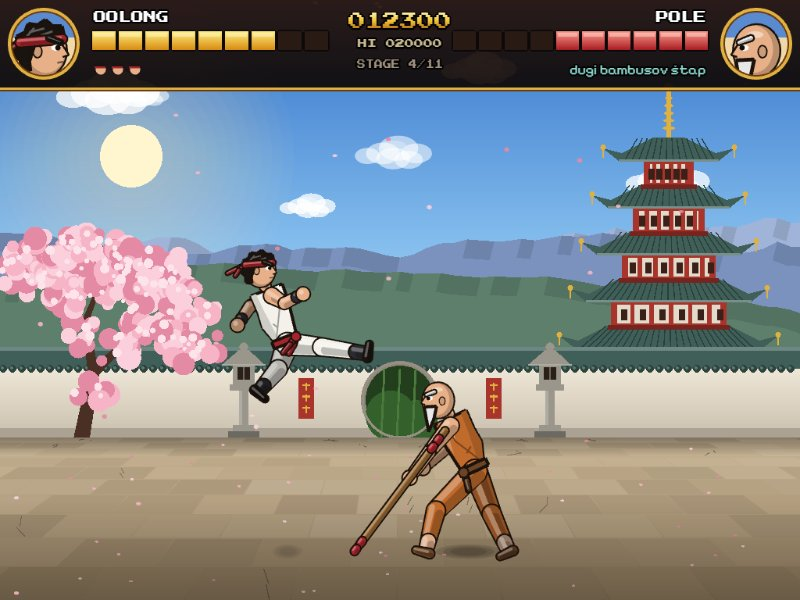
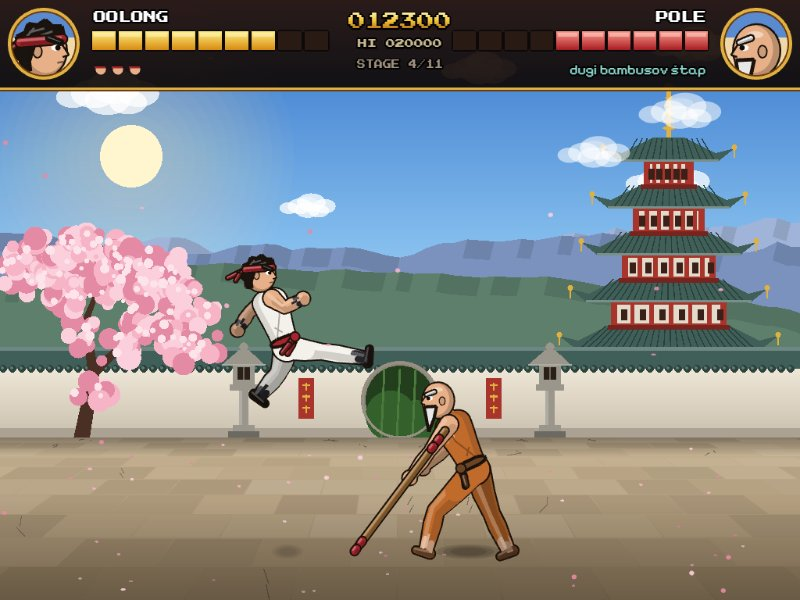
Draw Yie Ar Kung-Fu fighters as merged silhouettes with shaped muscles instead of jointed parts

diff --git a/kungfu/src/art.js b/kungfu/src/art.js
@@ -134,6 +134,63 @@ function tail(pen, start, dir, segs, len, r0, r1, color, t, phase) {
 // ---------------------------------------------------------------------------------------------
 // Fighters
 // ---------------------------------------------------------------------------------------------
+// Corner-cutting (Chaikin) to round off a closed outline.
+function smooth(points, iters = 2) {
+    let p = points;
+    for (let k = 0; k < iters; k++) {
+        const q = [];
+        for (let i = 0; i < p.length; i++) { const a = p[i], b = p[(i + 1) % p.length]; q.push(lerp2(a, b, 0.25), lerp2(a, b, 0.75)); }
+        p = q;
+    }
+    return p;
+}
+
+// A layer gathers the shapes of one piece of the body (an arm, a leg, the trunk) and paints all
+// their outlines first and all their fills after, so the pieces melt into one silhouette instead
+// of showing a seam at every joint.
+function layer(pen) {
+    const items = [];
+    const L = {
+        cap(a, b, ra, rb, c, shade = true) { items.push({ k: 'cap', a, b, ra, rb, c, shade }); return L; },
+        // A limb through several points with a radius at each, so muscles swell and taper.
+        limb(points, radii, c, shade = true) {
+            for (let i = 0; i < points.length - 1; i++) L.cap(points[i], points[i + 1], radii[i], radii[i + 1], c, shade);
+            return L;
+        },
+        shape(points, c) { items.push({ k: 'poly', p: points, c }); return L; },
+        dot(a, r, c, shade = true) { items.push({ k: 'dot', a, r, c, shade }); return L; },
+        flush() {
+            const g = pen.g, ow = pen.ow;
+            g.fillStyle(pen.col(OUTLINE)); g.lineStyle(ow * 2, pen.col(OUTLINE));
+            for (const it of items) {
+                if (it.k === 'cap') capsule(g, it.a, it.b, it.ra + ow, it.rb + ow);
+                else if (it.k === 'dot') g.fillCircle(it.a[0], it.a[1], it.r + ow);
+                else { g.fillPoints(pts(it.p), true); g.strokePoints(pts(it.p), true); for (const q of it.p) g.fillCircle(q[0], q[1], ow); }
+            }
+            for (const it of items) {
+                g.fillStyle(pen.col(it.c));
+                if (it.k === 'cap') capsule(g, it.a, it.b, it.ra, it.rb);
+                else if (it.k === 'dot') g.fillCircle(it.a[0], it.a[1], it.r);
+                else g.fillPoints(pts(it.p), true);
+            }
+            if (!pen.detail) return;
+            for (const it of items) {
+                if (!it.shade || it.k === 'poly') continue;
+                if (it.k === 'dot') {
+                    g.fillStyle(pen.col(darken(it.c, 0.14))); g.fillCircle(it.a[0] + it.r * 0.25, it.a[1] + it.r * 0.25, it.r * 0.72);
+                    g.fillStyle(pen.col(lighten(it.c, 0.22))); g.fillCircle(it.a[0] - it.r * 0.4, it.a[1] - it.r * 0.4, it.r * 0.3);
+                    continue;
+                }
+                g.fillStyle(pen.col(darken(it.c, 0.14)));
+                capsule(g, add2(it.a, [0.42, 0.42], it.ra), add2(it.b, [0.42, 0.42], it.rb), it.ra * 0.48, it.rb * 0.48);
+                g.fillStyle(pen.col(lighten(it.c, 0.22)));
+                capsule(g, add2(it.a, [-0.45, -0.45], it.ra), add2(it.b, [-0.45, -0.45], it.rb), it.ra * 0.26, it.rb * 0.26);
+            }
+        },
+    };
+    return L;
+}
+
 // o.scale multiplies the look's own size, o.tint paints the whole figure one colour (hit flash,
 // silhouettes), o.active straightens flexible weapons mid-strike, o.t drives cloth sway and
 // o.ambient tints the figure to the stage's light.
@@ -146,88 +203,97 @@ function drawFighter(g, look, P, x, y, face, o = {}) {
     const u = norm2([neck[0] - hip[0], neck[1] - hip[1]]);
     let n = [-u[1], u[0]];
     if (n[0] * f < 0) n = [-n[0], -n[1]];        // n points to the fighter's front
-    const sh = lerp2(neck, hip, 0.16);
-    const slim = look.slim ? 0.85 : 1;
-
-    const leg = (k, ft, back) => {
-        const pc = back ? darken(look.pants, 0.25) : look.pants;
-        const K = J(k), F = J(ft);
-        part(pen, hip, K, 3.4 * s, 2.7 * s, pc);
-        part(pen, K, F, 2.7 * s, 2.0 * s, pc);
-        const d = norm2([F[0] - K[0], F[1] - K[1]]);
-        const v = f === 1 ? [d[1], -d[0]] : [-d[1], d[0]];
-        const wrap = look.wraps ?? lighten(pc, 0.45);
-        part(pen, lerp2(K, F, 0.78), F, 2.15 * s, 2.0 * s, back ? darken(wrap, 0.25) : wrap);
-        const A = add2(F, d, 0.8 * s);
-        part(pen, add2(A, v, -1.3 * s), add2(A, v, 3.0 * s), 1.35 * s, 1.0 * s, back ? darken(shoes, 0.25) : shoes);
-    };
-    const arm = (e, h, back) => {
-        const E = J(e), Hd = J(h), sx = add2(sh, n, back ? -0.9 * s : 0.9 * s);
-        const dk = c => back ? darken(c, 0.25) : c;
-        if (look.sleeve != null) {
-            part(pen, sx, E, 2.6 * s * slim, 2.3 * s * slim, dk(look.sleeve));
-            part(pen, E, Hd, 1.75 * s * slim, 1.45 * s * slim, dk(skin));
-            part(pen, E, lerp2(E, Hd, 0.32), 2.4 * s * slim, 2.2 * s * slim, dk(look.sleeve));
-        } else {
-            part(pen, sx, E, 2.4 * s * slim, 1.75 * s * slim, dk(skin));
-            part(pen, E, Hd, 1.75 * s * slim, 1.45 * s * slim, dk(skin));
-        }
-        if (look.wrist) part(pen, lerp2(E, Hd, 0.68), lerp2(E, Hd, 0.86), 1.7 * s, 1.6 * s, dk(look.wrist));
-        disc(pen, Hd, 2.05 * s * slim, dk(skin));
-        if (pen.detail) { g.fillStyle(pen.col(lighten(dk(skin), 0.35))); g.fillCircle(Hd[0] - 0.6 * s, Hd[1] - 0.6 * s, 0.8 * s); }
-    };
-
-    leg('bk', 'bf', true);
-    arm('be', 'bh', true);
-
-    // Torso: shoulders, chest and waist built around the spine.
-    // Widths of the torso on its front and back side at the shoulders, chest and waist.
-    const fat = look.fat, k = s * slim;
-    const [sw, cw, ww] = (fat ? [5.4, 6.6, 6.4] : [5.4, 5.2, 3.9]).map(v => v * k);
-    const [swB, cwB, wwB] = (fat ? [5.4, 5.6, 4.8] : [5.4, 5.2, 3.9]).map(v => v * k);
-    const top = lerp2(neck, hip, 0.04), chest = lerp2(neck, hip, 0.35), waist = lerp2(neck, hip, 0.86);
-    const body = [add2(top, n, sw), add2(chest, n, cw), add2(waist, n, ww), add2(hip, n, ww + 0.3 * s),
-        add2(hip, n, -wwB - 0.3 * s), add2(waist, n, -wwB), add2(lerp2(chest, waist, 0.5), n, -cwB - 0.4 * s), add2(chest, n, -cwB), add2(top, n, -swB)];
+    const slim = look.slim ? 0.86 : 1, k = s * slim, fat = look.fat;
     const torsoCol = look.bare ? skin : look.gi;
-    poly(pen, body, torsoCol);
-    if (pen.detail) {
-        poly(pen, [add2(top, n, -swB), add2(chest, n, -cwB), add2(lerp2(chest, waist, 0.5), n, -cwB - 0.4 * s), add2(waist, n, -wwB), add2(hip, n, -wwB),
-            add2(hip, n, -wwB + 1.8 * s), add2(waist, n, -wwB + 1.8 * s), add2(chest, n, -cwB + 2 * s), add2(top, n, -swB + 1.8 * s)], darken(torsoCol, 0.15), false);
-        poly(pen, [add2(top, n, sw - 1.2 * s), add2(chest, n, cw - 0.6 * s), add2(lerp2(chest, waist, 0.5), n, cw * 0.7), add2(chest, n, cw - 2.2 * s), add2(top, n, sw - 2.6 * s)], lighten(torsoCol, 0.25), false);
-    }
-    if (fat) {
-        const bc = add2(lerp2(neck, hip, 0.62), n, 3.6 * s);
-        disc(pen, bc, 6.6 * s, skin);
-        if (pen.detail) {
-            g.fillStyle(pen.col(darken(skin, 0.18))); g.fillCircle(bc[0] + 1.6 * s, bc[1] + 1.6 * s, 4.6 * s);
-            g.fillStyle(pen.col(skin)); g.fillCircle(bc[0] - 0.4 * s, bc[1] - 0.4 * s, 4.8 * s);
-            g.fillStyle(pen.col(lighten(skin, 0.3))); g.fillCircle(bc[0] - 2.4 * s, bc[1] - 2.4 * s, 1.6 * s);
-            g.fillStyle(pen.col(darken(skin, 0.45))); g.fillCircle(bc[0] + n[0] * 3 * s, bc[1] + 1.2 * s, 0.5 * s);
-        }
-    }
-    if (pen.detail) {
-        g.lineStyle(0.45 * s, pen.col(darken(torsoCol, 0.4)));
-        if (look.bare) {
-            const pc = add2(lerp2(top, chest, 0.75), n, 1 * s);
-            g.lineBetween(pc[0], pc[1], pc[0] + n[0] * 3.6 * s + u[0] * -1.6 * s, pc[1] + n[1] * 3.6 * s - u[1] * 1.6 * s);
-            g.fillStyle(pen.col(darken(skin, 0.35))); g.fillCircle(pc[0] + n[0] * 2.6 * s, pc[1] + n[1] * 2.6 * s - 0.3 * s, 0.45 * s);
-        } else {
-            const vb = add2(lerp2(neck, hip, 0.42), n, 1.6 * s);
-            poly(pen, [add2(top, n, 2.4 * s), add2(top, n, -0.6 * s), vb], skin, false);
-            g.lineStyle(0.5 * s, pen.col(darken(look.gi, 0.35)));
-            g.lineBetween(top[0] + n[0] * 2.4 * s, top[1] + n[1] * 2.4 * s, vb[0], vb[1]);
-            g.lineBetween(vb[0], vb[1], waist[0] - n[0] * ww * 0.7, waist[1] - n[1] * ww * 0.7);
-            const fold = lerp2(chest, waist, 0.5);
-            g.lineBetween(fold[0] - n[0] * 2 * s, fold[1] - n[1] * 2 * s, fold[0] - n[0] * 0.6 * s, fold[1] - n[1] * 0.6 * s + 1.5 * s);
-        }
-    }
+    const at = (tt, w) => add2(lerp2(neck, hip, tt), n, w);
 
-    leg('fk', 'ff', false);
+    // Torso outline: [position down the spine (0 neck, 1 hip), front width, back width].
+    const prof = fat
+        ? [[-0.04, 2.6, 2.6], [0.08, 5.8, 5.6], [0.3, 7, 5.6], [0.58, 9.8, 5.2], [0.82, 8.6, 5], [1.02, 5.4, 5]]
+        : [[-0.04, 2.4, 2.4], [0.08, 5.6, 5.4], [0.3, 5.6, 5.1], [0.55, 4.6, 4.4], [0.82, 3.9, 3.9], [1.02, 4.3, 4.3]];
+    const contour = (inset = 0) => smooth([...prof.map(([tt, w]) => at(tt, Math.max(0.5, w * k - inset))),
+        ...prof.slice().reverse().map(([tt, , w]) => at(tt, -Math.max(0.5, w * k - inset)))]);
+
+    const leg = (L, kn, ft, back) => {
+        const pc = back ? darken(look.pants, 0.22) : look.pants, K = J(kn), F = J(ft);
+        const mid = lerp2(hip, K, 0.5), calf = lerp2(K, F, 0.35);
+        L.limb([add2(hip, n, back ? -0.8 * s : 0.8 * s), mid, K, calf, F], [3.7 * k, 3.2 * k, 2.4 * k, 2.6 * k, 1.9 * k], pc);
+        const wrap = look.wraps ?? lighten(look.pants, 0.45);
+        L.cap(lerp2(K, F, 0.76), F, 2.05 * k, 1.95 * k, back ? darken(wrap, 0.22) : wrap);
+        const d = norm2([F[0] - K[0], F[1] - K[1]]), v = f === 1 ? [d[1], -d[0]] : [-d[1], d[0]];
+        const A = add2(F, d, 0.8 * s);
+        L.cap(add2(A, v, -1.4 * s), add2(A, v, 3.0 * s), 1.4 * s, 1.0 * s, back ? darken(shoes, 0.22) : shoes);
+    };
+    const arm = (L, e, h, back) => {
+        const E = J(e), Hd = J(h), sx = add2(lerp2(neck, hip, 0.13), n, back ? -1.2 * s : 1.2 * s);
+        const dk = c => back ? darken(c, 0.22) : c;
+        const bic = lerp2(sx, E, 0.45), fore = lerp2(E, Hd, 0.4);
+        if (look.sleeve != null) {
+            L.limb([sx, bic, E], [2.9 * k, 2.6 * k, 2.3 * k], dk(look.sleeve));
+            L.limb([E, fore, Hd], [1.8 * k, 1.85 * k, 1.3 * k], dk(skin));
+            L.cap(E, lerp2(E, Hd, 0.3), 2.4 * k, 2.25 * k, dk(look.sleeve));
+        } else {
+            L.limb([sx, bic, E], [2.7 * k, 2.25 * k, 1.65 * k], dk(skin));
+            L.limb([E, fore, Hd], [1.65 * k, 1.9 * k, 1.3 * k], dk(skin));
+        }
+        if (look.wrist) L.cap(lerp2(E, Hd, 0.66), lerp2(E, Hd, 0.86), 1.75 * k, 1.55 * k, dk(look.wrist));
+        L.dot(Hd, 2.1 * k, dk(skin));
+    };
+
+    // Back leg and back arm, darker, behind everything.
+    const back = layer(pen);
+    leg(back, 'bk', 'bf', true);
+    arm(back, 'be', 'bh', true);
+    back.flush();
+
+    // Neck, trunk, hips and the front leg as one body.
+    const pelvis = lerp2(neck, hip, 0.97), pr = 4.5 * k + (fat ? 0.6 * s : 0);
+    const body = layer(pen);
+    body.cap(lerp2(neck, head, 0.15), lerp2(neck, hip, 0.05), 1.8 * s, 2.4 * s, skin, false);
+    body.shape(contour(), torsoCol);
+    body.dot(pelvis, pr, look.pants, false);
+    leg(body, 'fk', 'ff', false);
+    body.flush();
+
+    if (pen.detail) {
+        // Shade the back of the trunk and light the chest, then lay the hips and front thigh back
+        // over the shading.
+        const c = contour(), sh = contour(1.9 * s), half = c.length / 2;
+        poly(pen, [...c.slice(half), ...sh.slice(half).reverse()], darken(torsoCol, 0.12), false);
+        poly(pen, smooth([at(0.12, 4.6 * k), at(0.3, 5 * k), at(fat ? 0.6 : 0.45, (fat ? 7.4 : 3.8) * k), at(0.3, 2.6 * k)], 1), lighten(torsoCol, 0.18), false);
+        g.fillStyle(pen.col(look.pants)); g.fillCircle(pelvis[0], pelvis[1], pr);
+        g.fillStyle(pen.col(look.pants)); capsule(g, add2(hip, n, 0.8 * s), lerp2(hip, J('fk'), 0.5), 3.7 * k, 3.2 * k);
+        if (look.bare) {
+            const pc = at(0.32, 1 * k);
+            g.lineStyle(0.4 * s, pen.col(darken(skin, 0.3)));
+            g.beginPath(); g.arc(pc[0] + n[0] * 2 * k, pc[1] + n[1] * 2 * k - 0.4 * s, 2.6 * k, f > 0 ? 0.3 : Math.PI - 2.4, f > 0 ? 2.4 : Math.PI - 0.3); g.strokePath();
+            g.fillStyle(pen.col(darken(skin, 0.35))); g.fillCircle(pc[0] + n[0] * 3 * k, pc[1] + 0.6 * s, 0.4 * s);
+            if (fat) {
+                const bc = at(0.62, 5.2 * k);
+                g.fillStyle(pen.col(lighten(skin, 0.25))); g.fillEllipse(bc[0] - f * 0.6 * s, bc[1] - 2 * s, 3 * s, 2.2 * s);
+                g.fillStyle(pen.col(darken(skin, 0.45))); g.fillCircle(bc[0] + f * 0.8 * s, bc[1] + 1.6 * s, 0.5 * s);
+                g.lineStyle(0.35 * s, pen.col(darken(skin, 0.25)));
+                const fl = at(0.84, 4 * k); g.lineBetween(fl[0] - f * 2 * s, fl[1], fl[0] + f * 2.5 * s, fl[1] - 0.6 * s);
+            } else {
+                g.lineStyle(0.35 * s, pen.col(darken(skin, 0.22)));
+                for (const tt of [0.52, 0.64, 0.76]) { const a = at(tt, 0.8 * k), b = at(tt, 3 * k); g.lineBetween(a[0], a[1], b[0], b[1]); }
+            }
+        } else {
+            const vb = at(0.42, 1.6 * s);
+            poly(pen, [at(0.0, 2.4 * s), at(0.0, -0.6 * s), vb], skin, false);
+            g.lineStyle(0.45 * s, pen.col(darken(look.gi, 0.3)));
+            const tp = at(0.0, 2.4 * s), w1 = at(0.86, -2.6 * k);
+            g.lineBetween(tp[0], tp[1], vb[0], vb[1]);
+            g.lineBetween(vb[0], vb[1], w1[0], w1[1]);
+            const f1 = at(0.6, -1.4 * k), f2 = at(0.72, 0.4 * k);
+            g.lineBetween(f1[0], f1[1], f2[0], f2[1]);
+        }
+    }
 
     // Sash with a knot at the front and two ends that swing behind.
-    const bm = lerp2(waist, hip, 0.55), bw = ww + 0.6 * s, bwB = wwB + 0.6 * s;
-    poly(pen, [add2(add2(bm, n, bw), u, 1.15 * s), add2(add2(bm, n, -bwB), u, 1.15 * s), add2(add2(bm, n, -bwB), u, -1.15 * s), add2(add2(bm, n, bw), u, -1.15 * s)], look.belt);
-    const knot = add2(bm, n, bw * 0.75);
+    const bfw = prof[4][1] * k + 0.6 * s, bbw = prof[4][2] * k + 0.6 * s, bm = lerp2(neck, hip, 0.86);
+    poly(pen, smooth([add2(add2(bm, n, bfw), u, 1.2 * s), add2(add2(bm, n, -bbw), u, 1.2 * s), add2(add2(bm, n, -bbw), u, -1.2 * s), add2(add2(bm, n, bfw), u, -1.2 * s)], 1), look.belt);
+    const knot = add2(bm, n, bfw * 0.8);
     tail(pen, knot, [-f * 0.35, 1], 2, 2.6 * s, 0.85 * s, 0.6 * s, look.belt, t, 0);
     tail(pen, knot, [-f * 0.6, 1], 2, 2.4 * s, 0.8 * s, 0.55 * s, darken(look.belt, 0.15), t, 1.7);
     disc(pen, knot, 1.25 * s, look.belt);
@@ -243,9 +309,10 @@ function drawFighter(g, look, P, x, y, face, o = {}) {
         if (pen.detail) { g.fillStyle(pen.col(0xfff0b0)); g.fillCircle(B[0] - 0.6 * s, B[1] - 0.6 * s, 0.7 * s); }
     }
 
-    part(pen, lerp2(neck, head, 0.1), lerp2(neck, head, 0.75), 1.7 * s, 1.6 * s, skin);
     drawHead(pen, look, head[0], head[1], s, f, t, o);
-    arm('fe', 'fh', false);
+    const front = layer(pen);
+    arm(front, 'fe', 'fh', false);
+    front.flush();
     drawWeapon(pen, look, J, s, f, !!o.active, t);
 }
 
